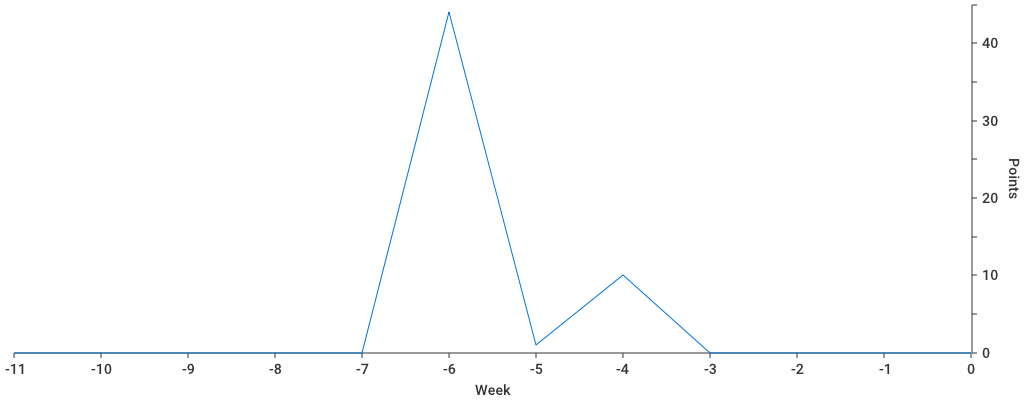
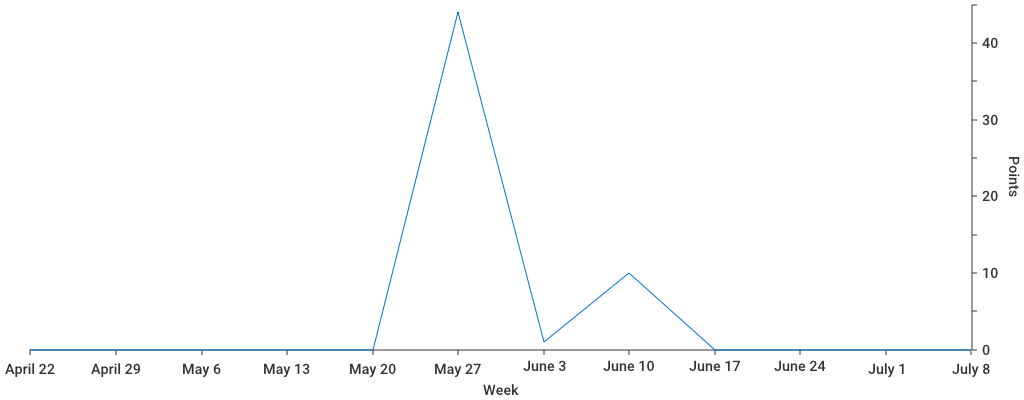
sync

diff --git a/agilemarkdown-project.md b/agilemarkdown-project.md
@@ -3,7 +3,7 @@
 [home](index.md) • [idea list](ideas.md) • [tag list](tags.md) • [velocity](velocity.md) • [archive](agilemarkdown-project/archive.md)
 
 Created: 2018-05-02 10:25 AM  
-Modified: 2018-07-04 03:45 PM  
+Modified: 2018-07-05 11:07 AM  
 
 ### Doing
 | User | Title | Points | Tags |

diff --git a/index.md b/index.md
@@ -7,7 +7,3 @@ Welcome to Agilemarkdown, an open source backlog manager that uses Markdown and 
 ## backlogs
 
 [Agilemarkdown-project](agilemarkdown-project.md) • [archive](agilemarkdown-project/archive.md)
-
----
-
-[Velocity](velocity.md) • [archive](velocity/archive.md)

diff --git a/velocity.md b/velocity.md
@@ -9,12 +9,5 @@ Modified: 2018-07-04 11:51 PM
 
 [Agilemarkdown-project](agilemarkdown-project.md)
 
-![velocity](agilemarkdown-project/velocity.png)
-
-
----
-
-[Velocity](velocity.md)
-
-![velocity](velocity/velocity.png)
+![velocity](velocity/agilemarkdown-project.png)
 
